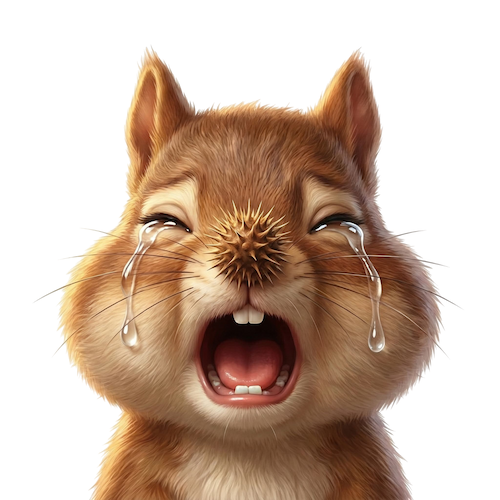
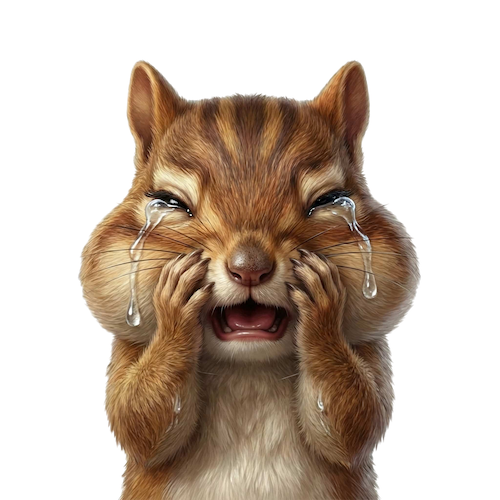
Update pain face and add cache busting

diff --git a/static/squirrel.html b/static/squirrel.html
@@ -377,15 +377,16 @@
 
     <script>
         // Assets Paths
+        const v = '?v=2'; // Cache buster
         const IMAGES = {
-            neutral: 'static/images/squirrel/squirrel_neutral.png',
-            cheek1: 'static/images/squirrel/squirrel_cheek_1.png',
-            cheek2: 'static/images/squirrel/squirrel_cheek_2.png',
-            win: 'static/images/squirrel/squirrel_win.png',
-            pain: 'static/images/squirrel/squirrel_pain.png',
-            acorn: 'static/images/squirrel/item_acorn.png',
-            walnut: 'static/images/squirrel/item_walnut.png',
-            chestnut: 'static/images/squirrel/item_chestnut.png'
+            neutral: 'static/images/squirrel/squirrel_neutral.png' + v,
+            cheek1: 'static/images/squirrel/squirrel_cheek_1.png' + v,
+            cheek2: 'static/images/squirrel/squirrel_cheek_2.png' + v,
+            win: 'static/images/squirrel/squirrel_win.png' + v,
+            pain: 'static/images/squirrel/squirrel_pain.png' + v,
+            acorn: 'static/images/squirrel/item_acorn.png' + v,
+            walnut: 'static/images/squirrel/item_walnut.png' + v,
+            chestnut: 'static/images/squirrel/item_chestnut.png' + v
         };
 
         const ELEMENTS = {
